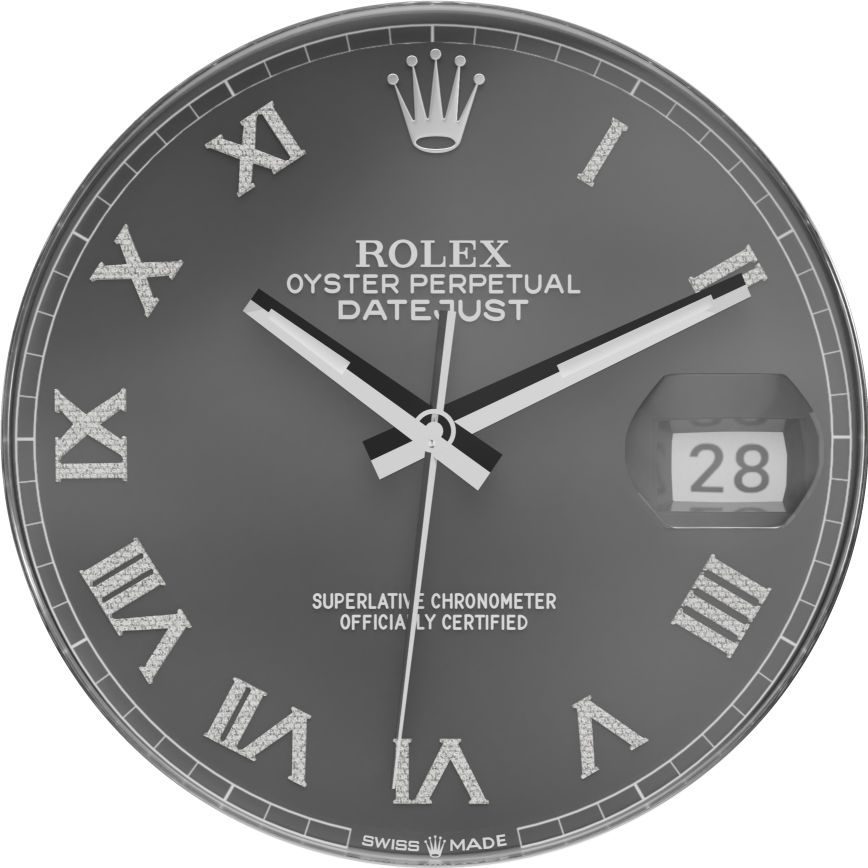
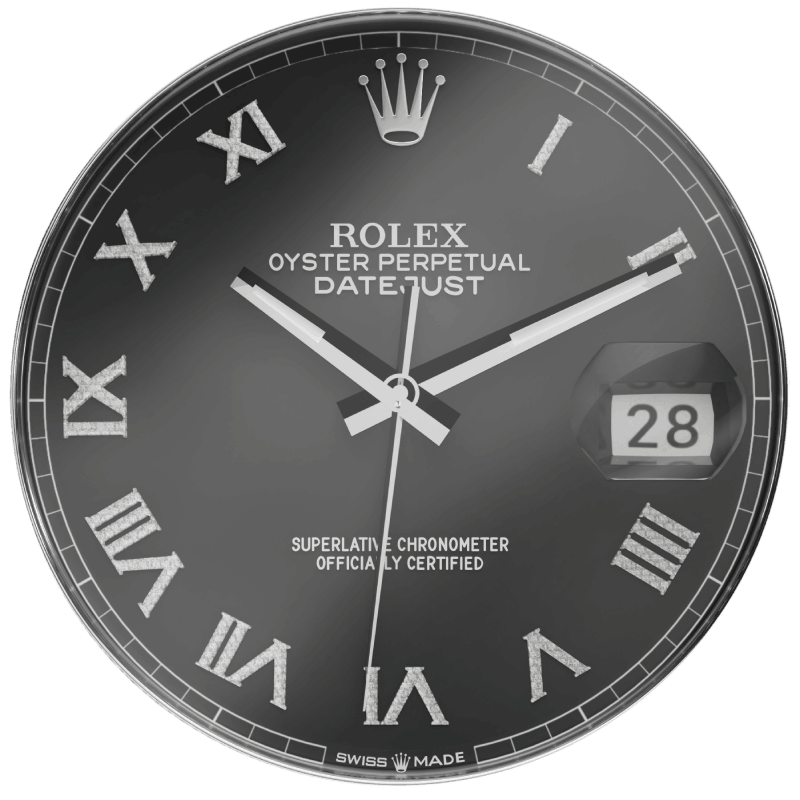
add updated dials

diff --git a/src/components/Configure/Configure.jsx b/src/components/Configure/Configure.jsx
@@ -39,6 +39,8 @@ const Configure = () => {
     setSelectedSize,
     selectedExtraStrapsIndex,
     extraStrapsSelector,
+    setClick,
+    click
   } = useSliderContext();
 
   const { selected } = useParams();
@@ -286,6 +288,27 @@ const Configure = () => {
               36
             </button>
           </div>
+          <div className="text-sm flex gap-x-2">
+            <button
+              onClick={() => setClick('11')}
+              className={`px-3 py-1 rounded-md ${click !== '10'
+                ? "bg-white text-black border border-gray-400"
+                : "border border-transparent bg-black text-white"
+                } 
+                            `}
+            >
+              Regular 
+            </button>
+            <button
+              onClick={() => setClick('10')}
+              className={`px-3 py-1  rounded-md   ${click == '10'
+                ? "bg-white text-black border border-gray-400"
+                : "border border-transparent bg-black text-white"
+                }`}
+            >
+              Blacked out
+            </button>
+          </div>
         </div>
         <div className=" md:left-14 top-24 md:top-24 left-2 sm:top-16  z-[9999]">
           <Link
@@ -299,7 +322,7 @@ const Configure = () => {
         </div>
 
         {/*--------------------------------------------initial size selection part end--------------------------------------------- */}
-        <SizeSelection initialWatch={initialWatch} activeWatch={activeWatch} isDark={isDark}
+        <SizeSelection initialWatch={initialWatch} click={click} activeWatch={activeWatch} isDark={isDark}
           selectedSize={selectedSize} setInvoiceMod={setInvoiceMod} />
 
         {/* ----------------------------------------------------------------slider two bezzels --------------------------------------------------------------  */}
@@ -334,6 +357,7 @@ const Configure = () => {
           extraStrapsActivator={extraStrapsActivator}
           straps={straps}
           activator={activator}
+          click={click}
           handleNavigator={handleNavigator}
         />
 

diff --git a/src/hooks/useSlider.js b/src/hooks/useSlider.js
@@ -1,6 +1,8 @@
 import { useEffect, useState } from "react";
 import starp1 from "../assets/BODY/Body default.png";
 import starp2 from "../assets/BODY/Body.png";
+import starp3 from "../assets/BODY/Body default black.png";
+import starp4 from "../assets/BODY/Body black.png";
 // dials baguettel
 import dialsBAGUETTE1 from "../assets/1K Renders rolex watch/Baguette watch/Dial/Black.png";
 import dialsBAGUETTE2 from "../assets/1K Renders rolex watch/Baguette watch/Dial/Blue.png";
@@ -67,6 +69,8 @@ const useSlider = () => {
   const straps = [
     [starp1, "DATEJUST OYSTER", 11250, 0],
     [starp2, "DATEJUST JUBILEE", 12000, 1],
+    [starp3, "DATEJUST OYSTER", 12750, 2],
+    [starp4, "DATEJUST JUBILEE", 13500, 3],
   ];
 
   const dialsBAGUETTE = [
@@ -187,6 +191,18 @@ const useSlider = () => {
         [straps[0], dialsBRUSHED[2], bazzels[4], 36],
         [straps[1], dialsBRUSHED[2], bazzels[4], 41],
       ]);
+    }
+    if (click == "10") {
+      let blackOut = initialWatch
+      blackOut[0][0] = straps[2]
+      blackOut[1][0] = straps[3]
+      setInitialWatch([...blackOut]);
+    }
+    if (click == "11") {
+      let regular = initialWatch
+      regular[0][0] = straps[0]
+      regular[1][0] = straps[1]
+      setInitialWatch([...regular]);
     }
     //eslint-disable-next-line
   }, [click]);

diff --git a/src/components/Configure/Navigators/Navigator.jsx b/src/components/Configure/Navigators/Navigator.jsx
@@ -15,7 +15,9 @@ const Navigator = ({ dialsBAGUETTE,
     extraStrapsActivator,
     straps,
     activator,
-    handleNavigator, }) => {
+    handleNavigator,
+    click
+ }) => {
     return (
         <div className="navigatorContainers">
             <div className="navigator1 landscape:lsc-mob:pb-20  xl:my-5  mx-auto overflow-hidden">
@@ -129,7 +131,7 @@ const Navigator = ({ dialsBAGUETTE,
                 </div>
 
                 <div className="strapsNavigators items-center justify-center w-full overflow-hidden hidden">
-                    {straps?.map((dial, index) => (
+                    {straps.filter((strap, i)=> click == '10' ? i >= 2 : i < 2)?.map((dial, index) => (
                         <img
                             key={index}
                             className="mid-xl:w-10 lg:w-8 lg:h-8  mid-xl:h-10 w-12 h-14  object-cover object-center"
